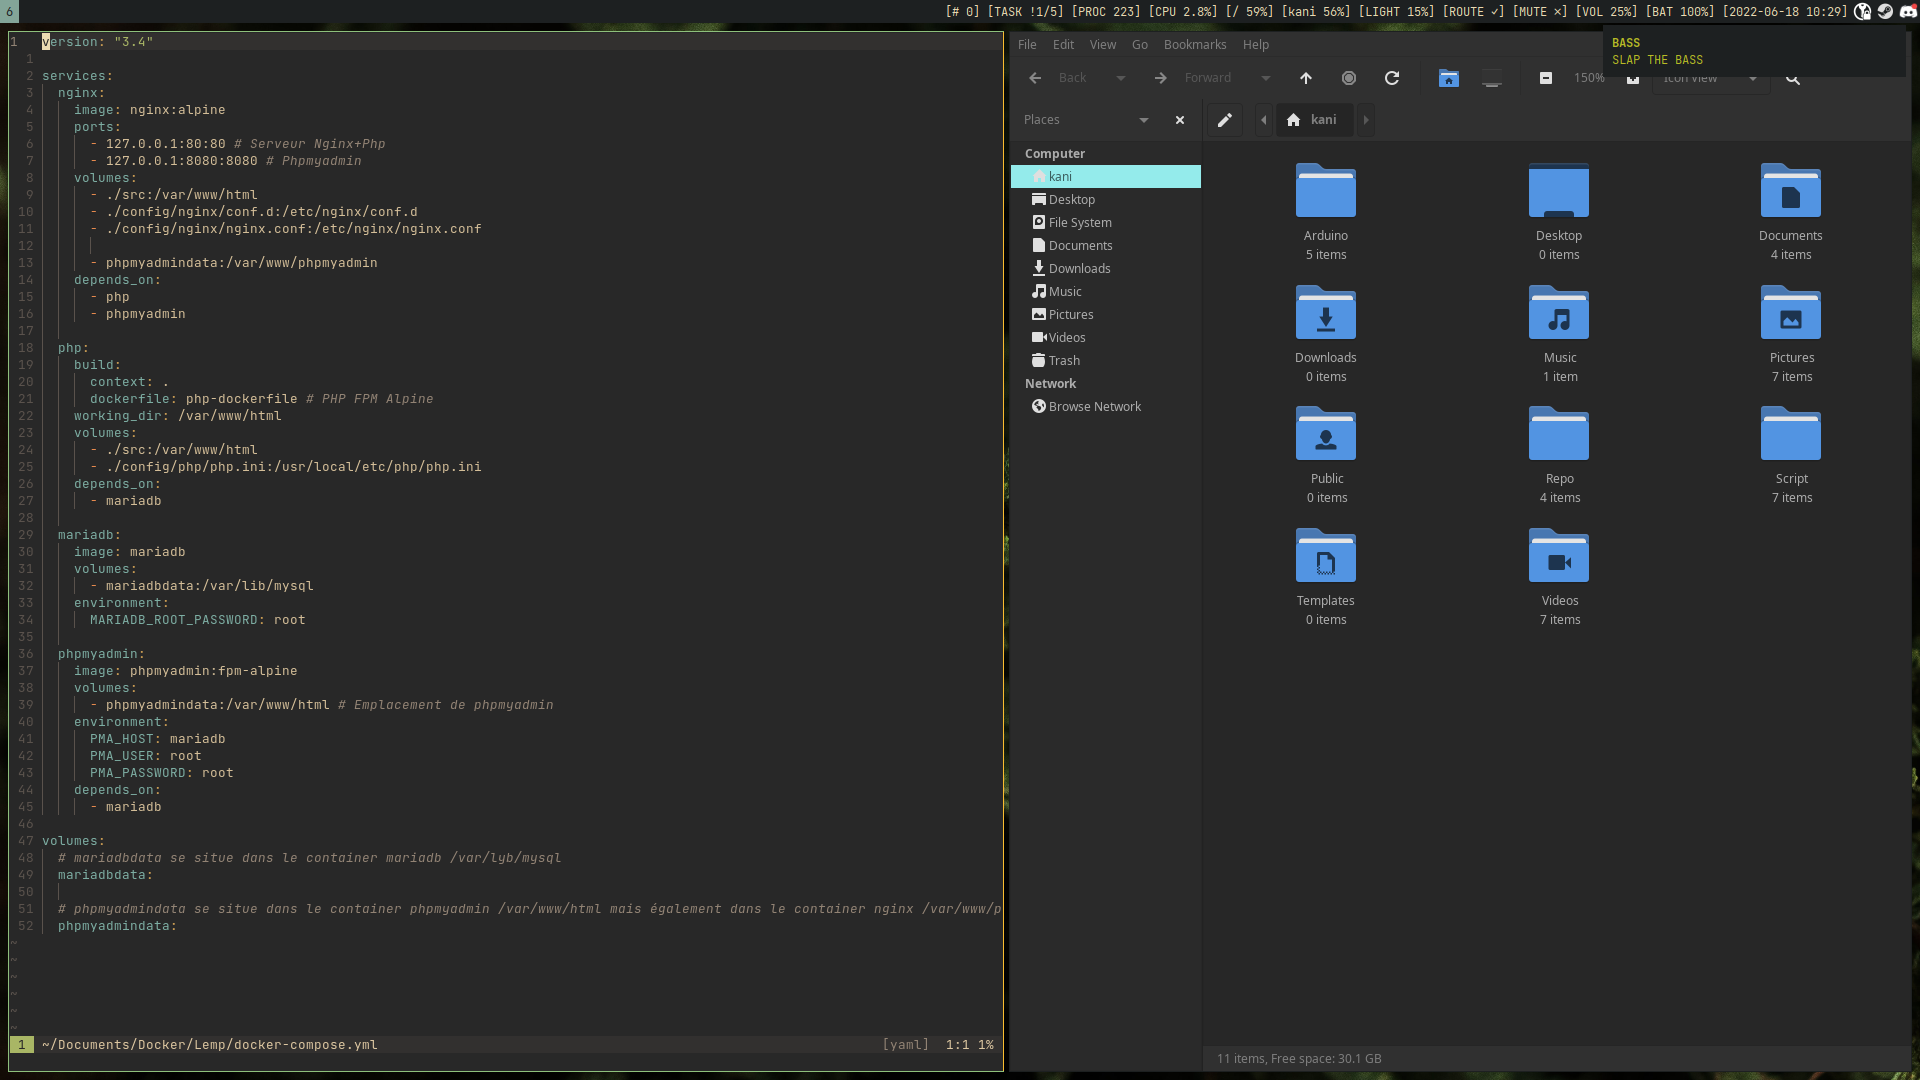
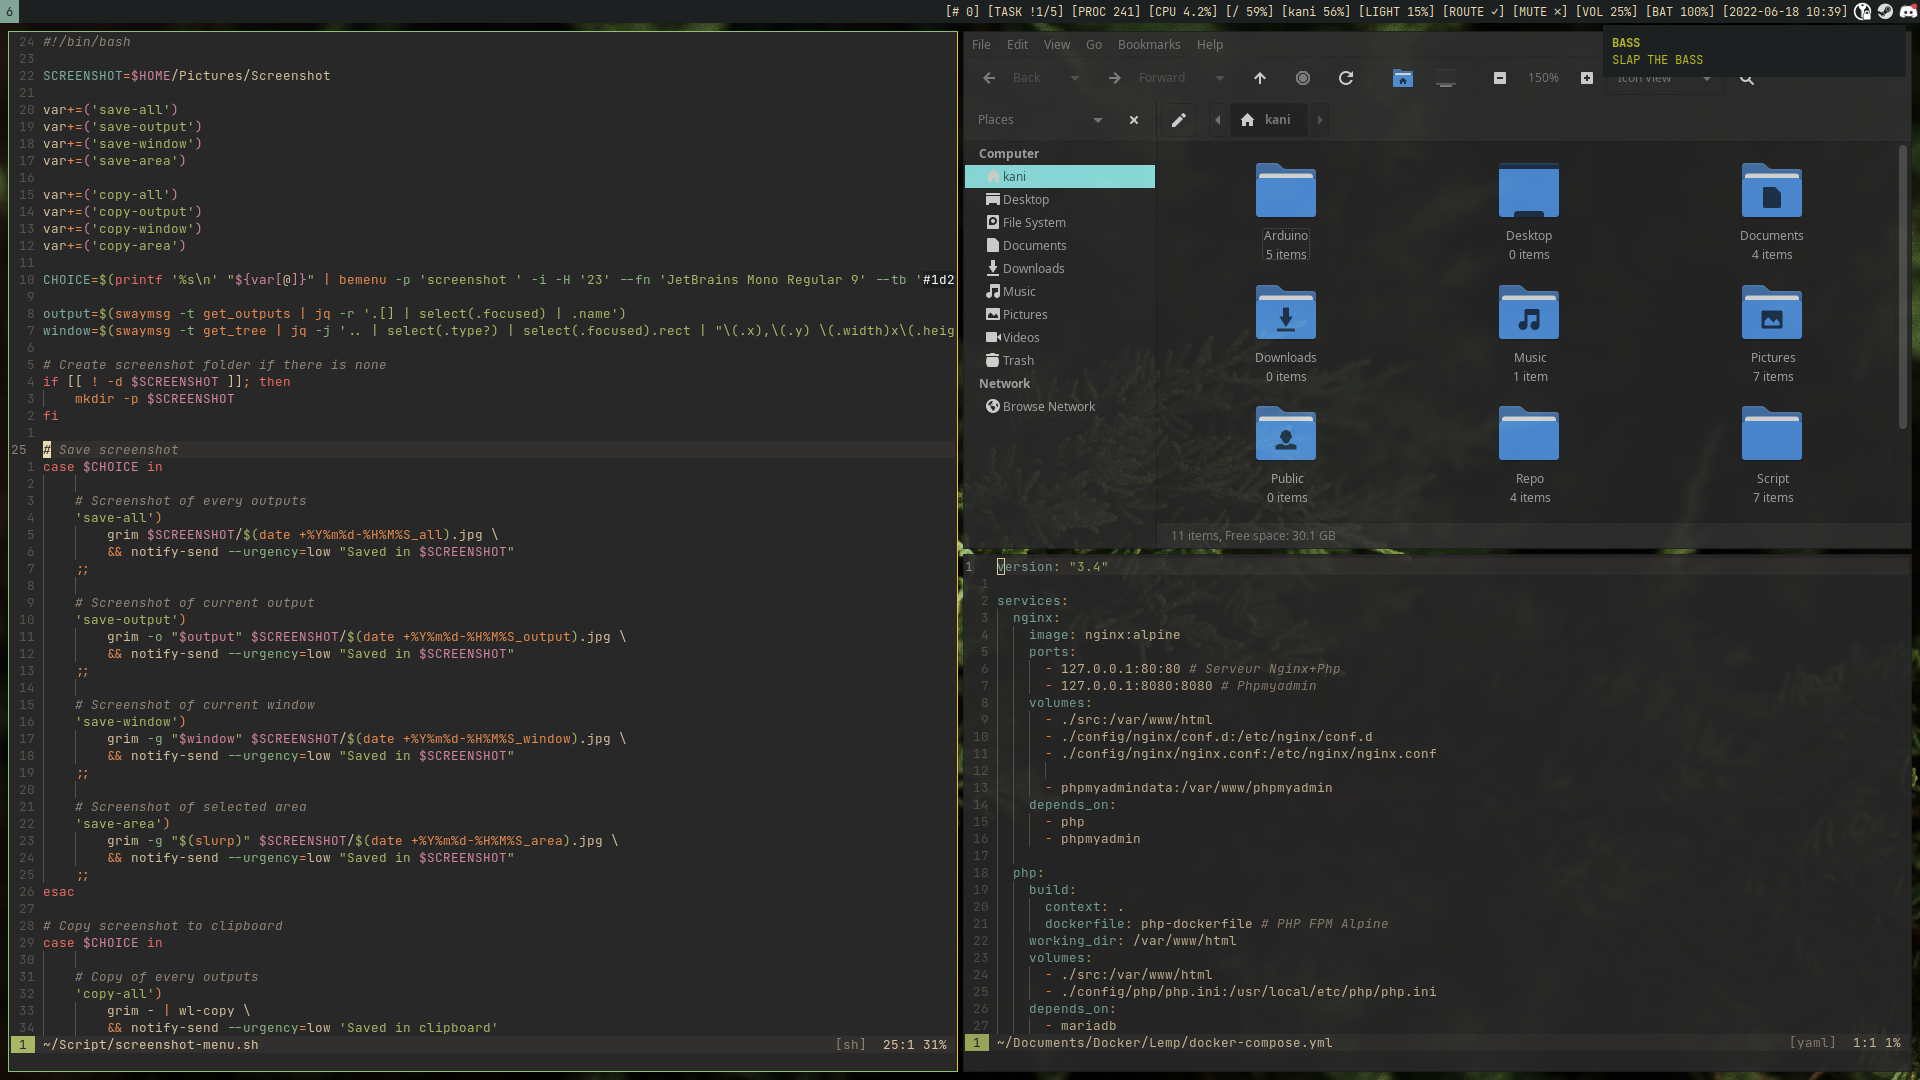
2 screenshots is better than 3

diff --git a/README.md b/README.md
@@ -2,8 +2,6 @@
 
 ![](src/screenshot2.jpg)
 
-![](src/screenshot3.jpg)
-
 ---
 ### CLI
 zsh / neovim / ranger / htop / cronie / tmux / task
